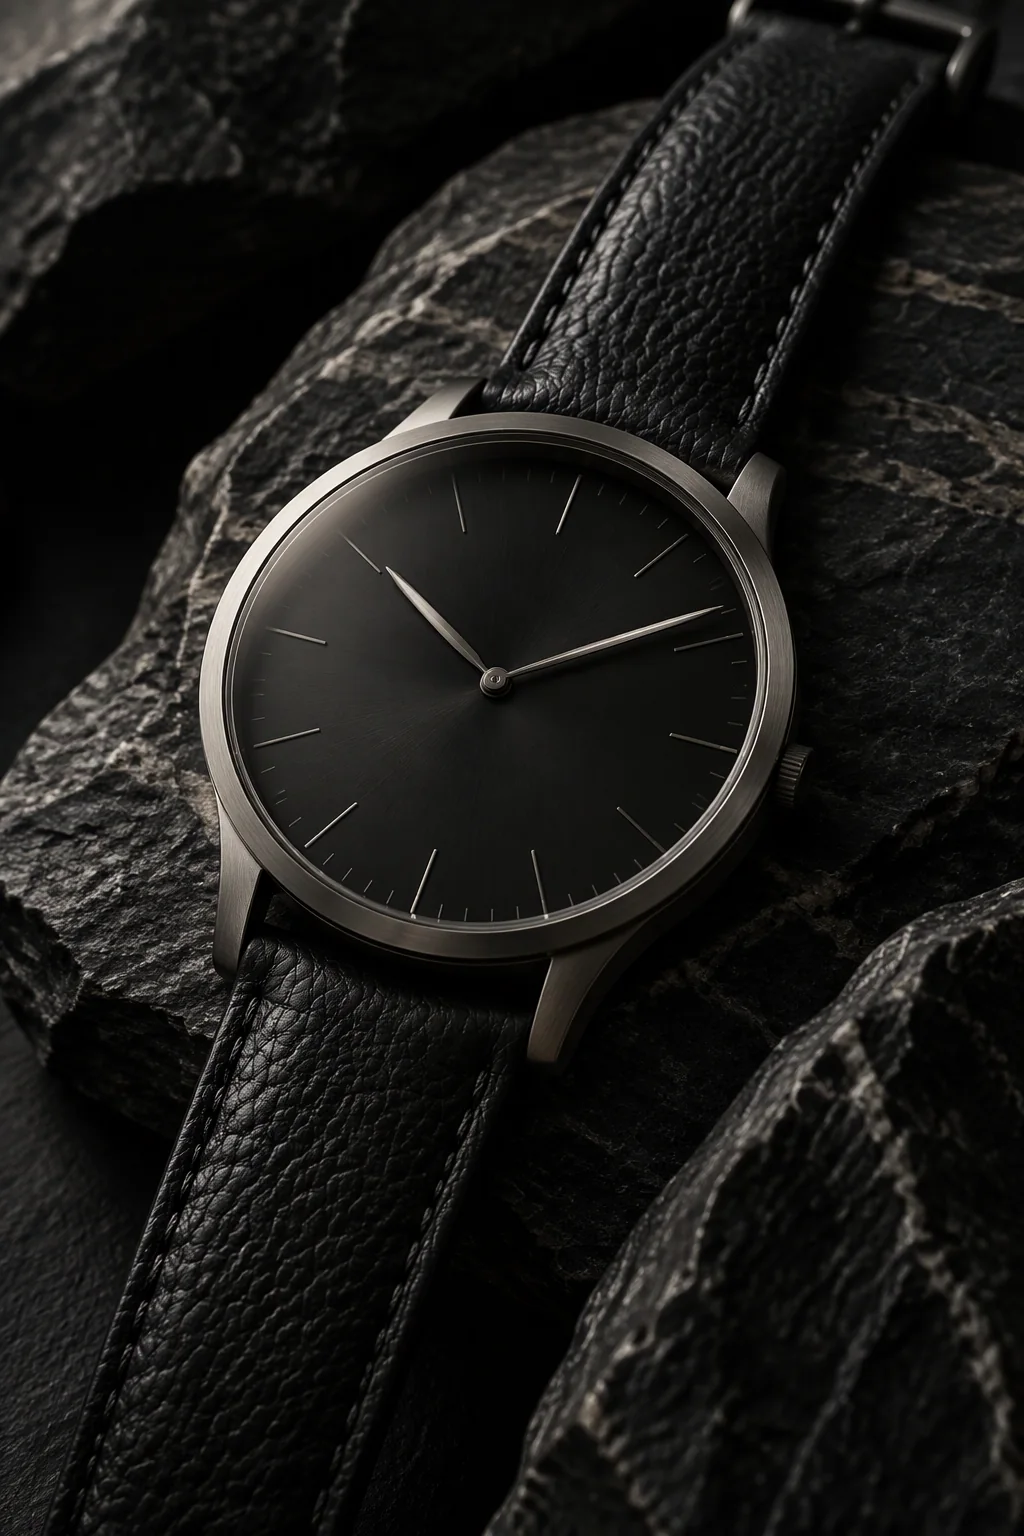
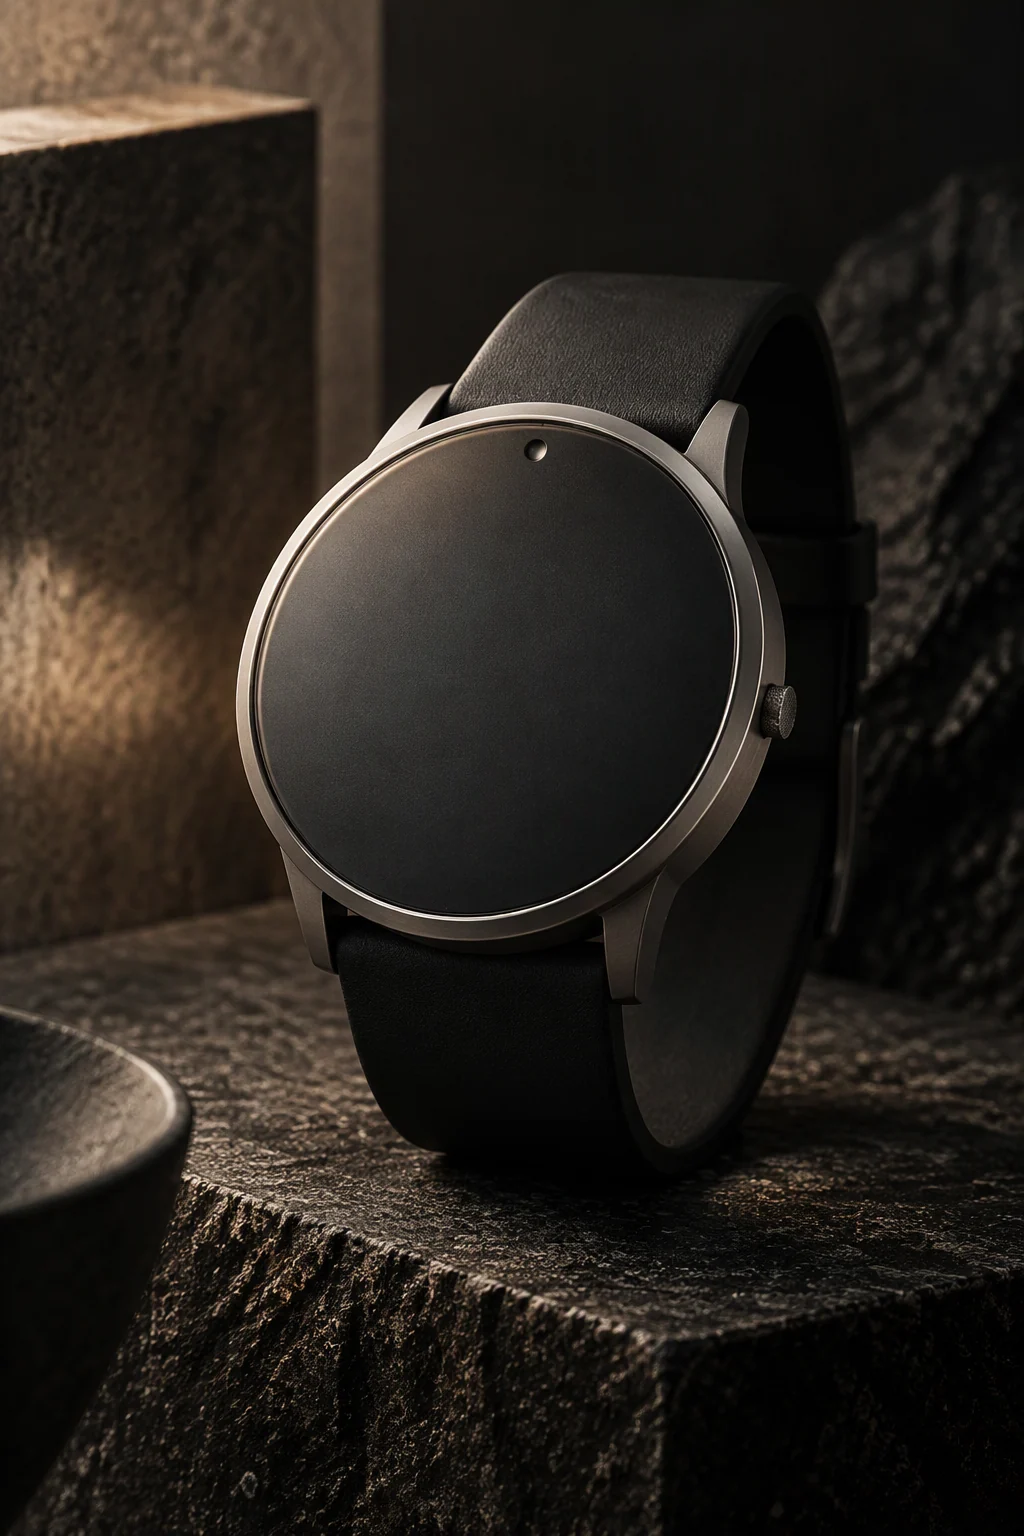
Foto reali e nuova immagine ORVYN
Claude-Session: https://claude.ai/code/session_011Ssv5cQNyRz7RZGD2FWFTu

diff --git a/js/products.js b/js/products.js
@@ -39,8 +39,8 @@ window.ROUNDS = [
     description: "Un robot-peluche progettato per mordicchiarti delicatamente il dito.",
     category: "Robotics / Comfort Tech",
     image: "assets/images/02-amagami-ham-ham.webp",
-    alt: "Piccolo robot-peluche che mordicchia la punta di un dito.",
-    objectPosition: "center center",
+    alt: "Peluche a forma di gattino che mordicchia la punta di un dito.",
+    objectPosition: "center 45%",
     revealTitle: "Esiste davvero.",
     revealText: "Lo produce Yukai Engineering e sceglie tra circa due dozzine di modi di mordicchiare. In vendita dal 2022."
   },
@@ -78,8 +78,8 @@ window.ROUNDS = [
     description: "Un cuscino robotico senza volto che reagisce alle carezze muovendo una coda.",
     category: "Robotics / Wellbeing",
     image: "assets/images/05-qoobo.webp",
-    alt: "Cuscino rotondo in pelliccia con una coda, senza testa.",
-    objectPosition: "center center",
+    alt: "Una persona sul divano accarezza un cuscino rotondo in pelliccia grigia con una coda.",
+    objectPosition: "58% center",
     revealTitle: "Esiste davvero.",
     revealText: "È di Yukai Engineering: presentato nel 2017, in vendita dal 2018. Niente faccia, solo coda."
   },
@@ -104,8 +104,8 @@ window.ROUNDS = [
     description: "Un robot indossabile progettato per imboccare pomodori mentre si corre.",
     category: "Wearable / Food Tech",
     image: "assets/images/07-tomatan.webp",
-    alt: "Robot da indossare sulle spalle con un braccio che porge un pomodoro a chi corre.",
-    objectPosition: "center center",
+    alt: "Un uomo indossa sulle spalle un robot a forma di pomodoro che gli porge un pomodoro alla bocca.",
+    objectPosition: "center 25%",
     revealTitle: "Esiste davvero. Per una maratona.",
     revealText: "Kagome lo ha costruito con Maywa Denki per la Maratona di Tokyo 2015: circa 8 kg, sei pomodori a bordo."
   },
@@ -117,7 +117,7 @@ window.ROUNDS = [
     description: "Un orologio automatico svizzero in titanio, con quadrante senza numeri e un design ridotto all’essenziale.",
     category: "Orologi",
     image: "assets/images/08-orvyn-o1.webp",
-    alt: "Orologio minimalista con quadrante nero, cassa satinata e cinturino scuro.",
+    alt: "Orologio con cassa in titanio e quadrante nero completamente vuoto, senza lancette, appoggiato su un blocco di pietra.",
     objectPosition: "center 45%",
     revealTitle: "ORVYN non esiste.",
     revealText: "Anche questo prodotto è stato inventato. Ma l’idea da cui nasce sì.",
